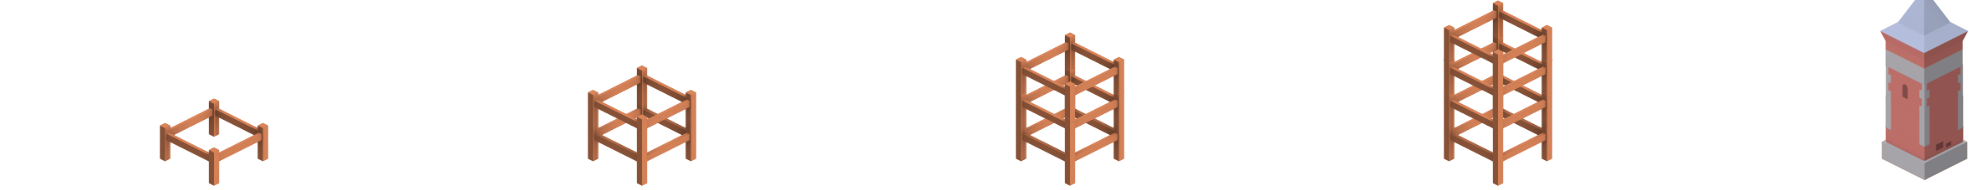
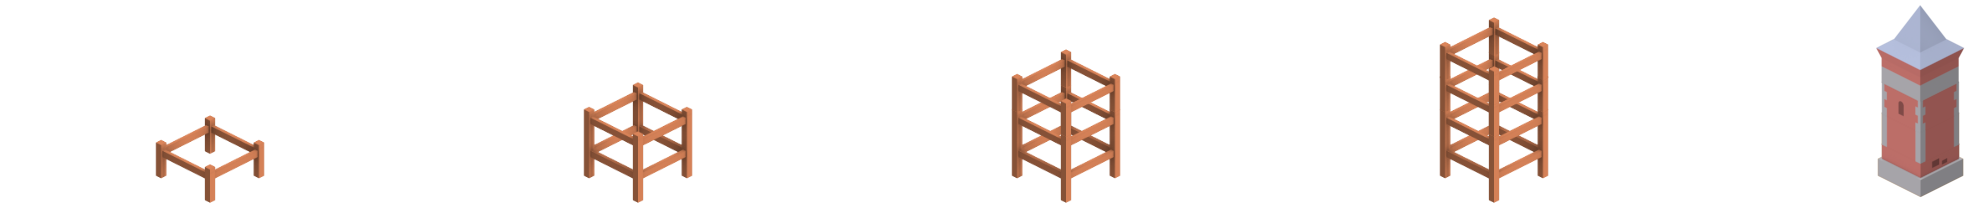
tower rect

diff --git a/csfml_engine/src/create_all_instance.c b/csfml_engine/src/create_all_instance.c
@@ -26,11 +26,11 @@ void create_all_towers(var_t *var)
     create_tower("Tower_lv2.png", (V2f){620, 307}, var, "Tower_2.4");
     create_tower("Tower_lv2.png", (V2f){900, 207}, var, "Tower_2.5");
 
-    create_tower("Tower_lv3.png", (V2f){815, 485}, var, "Tower_3.1");
-    create_tower("Tower_lv3.png", (V2f){1140, 355}, var, "Tower_3.2");
-    create_tower("Tower_lv3.png", (V2f){1030, 540}, var, "Tower_3.3");
-    create_tower("Tower_lv3.png", (V2f){620, 312}, var, "Tower_3.4");
-    create_tower("Tower_lv3.png", (V2f){900, 212}, var, "Tower_3.5");
+    create_tower("Tower_lv3.png", (V2f){820, 470}, var, "Tower_3.1");
+    create_tower("Tower_lv3.png", (V2f){1146, 340}, var, "Tower_3.2");
+    create_tower("Tower_lv3.png", (V2f){1036, 525}, var, "Tower_3.3");
+    create_tower("Tower_lv3.png", (V2f){626, 297}, var, "Tower_3.4");
+    create_tower("Tower_lv3.png", (V2f){906, 197}, var, "Tower_3.5");
 }
 
 static void create_all_tower_and_wall(var_t *var)
@@ -71,6 +71,7 @@ static void create_all_bar(var_t *var)
     set_position_tag("white_life", (V2f){(get_position_tag("hearth").x + get_size_tag("hearth").x/2) - get_size_tag("white_life").x/2, get_position_tag("hearth").y + 50});
     create_selected_tower(var);
     create_interface(var);
+    create_tools(var);
 }
 
 static void create_all_text(var_t *var)

diff --git a/csfml_engine/src/mconstruct.c b/csfml_engine/src/mconstruct.c
@@ -11,17 +11,22 @@
 
 void animation_construct(var_t *var, float time_pass)
 {
-    if (get_shape_obj(&var->b_constructor).width < (int)get_texture_size_obj(&var->b_constructor).x)
+    if (get_shape_obj(&var->b_constructor).width < (int)get_texture_size_obj(&var->b_constructor).x) {
         set_shape_obj(&var->b_constructor, (sfIntRect){0, 85, get_shape_obj(&var->b_constructor).width + (0.001 * time_pass), 85}, true);
+        set_position_tag("btools", (V2f){get_position_tag("btools").x + (0.00094 * time_pass), get_position_tag("btools").y});
+    }
 }
 
 void animation_construct_return(var_t *var, int *retract, float time_pass)
 {
-    if (get_shape_obj(&var->b_constructor).width > 83)
+    if (get_shape_obj(&var->b_constructor).width > 83) {
         set_shape_obj(&var->b_constructor, (sfIntRect){0, 85, get_shape_obj(&var->b_constructor).width - (0.001 * time_pass), 85}, true);
+        set_position_tag("btools", (V2f){get_position_tag("btools").x - (0.001 * time_pass), get_position_tag("btools").y});
+    }
     else if (get_shape_obj(&var->b_constructor).width <= 83) {
         *retract = 0;
         set_shape_obj(&var->b_constructor, (sfIntRect){0, 0, 83, 85}, true);
+        set_position_tag("btools", (V2f){150, get_position_tag("constructMenu").y - 5});
     }
 }
 

diff --git a/csfml_engine/src/create_tools.c b/csfml_engine/src/create_tools.c
@@ -1,0 +1,17 @@
+/*
+** EPITECH PROJECT, 2021
+** my_defender
+** File description:
+** create_tools.c
+*/
+
+#include "my.h"
+#include "engine.h"
+#include "var.h"
+
+void create_tools(var_t *var)
+{
+    create_object("btools.png", "btools", 9);
+    set_position_tag("btools", (V2f){150, get_position_tag("constructMenu").y - 5});
+    set_shape_tag("btools", (sfIntRect){0, 0, 87, 85}, true);
+}

diff --git a/csfml_engine/include/var.h b/csfml_engine/include/var.h
@@ -85,5 +85,6 @@ void time_tower_run_two(var_t *var);
 void time_tower_run_three(var_t *var);
 void time_tower_run_four(var_t *var);
 void time_tower_run_five(var_t *var);
+void create_tools(var_t *var);
 
 #endif
